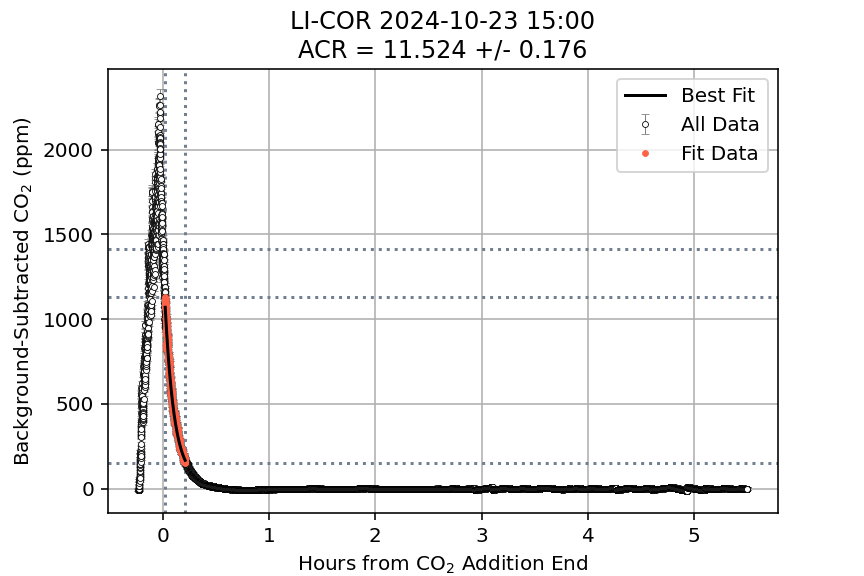
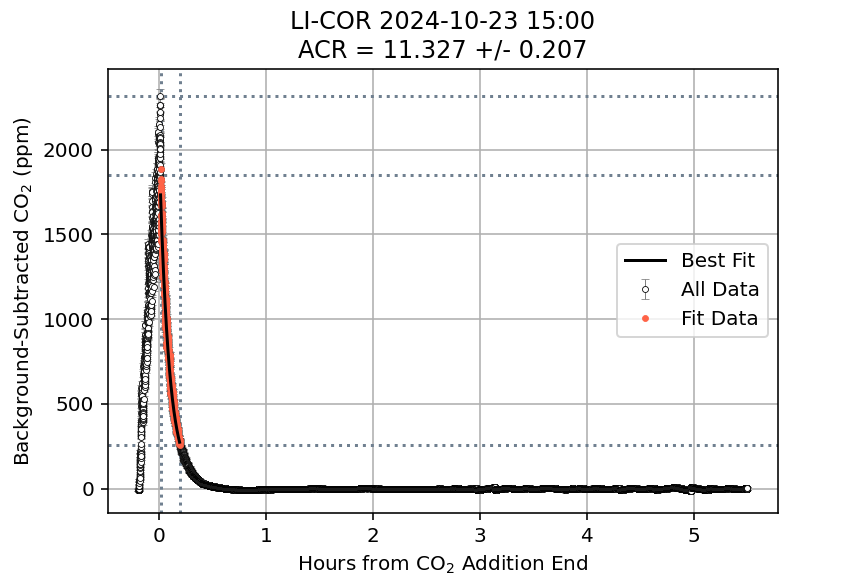
Added filter to remove poor ACR fits for LI-COR, determined no filtering needed for Aranet ACR fits

diff --git a/Instruments_Scripts/calculate_acrs.py b/Instruments_Scripts/calculate_acrs.py
@@ -694,6 +694,11 @@ licor_acrs = pl.DataFrame(
     orient="row", 
     schema=["AddTime", "FitStartTime", "FitEndTime", "ACR_h", "ACR_h_Unc"]
     )
+# Filters poor LI-COR fits based on uncertainties
+licor_acrs = licor_acrs.filter(
+    pl.col("ACR_h_Unc").lt(0.0017)
+    | pl.col("ACR_h").gt(3)
+    )
 # %% Fits Aranet CO2 decays
 aranet_acrs = []
 for (add_id,), add_df in aranet_decay.items():
@@ -832,43 +837,7 @@ aranet_acrs = pl.DataFrame(
     orient="row", 
     schema=["AddTime", "FitStartTime", "FitEndTime", "ACR_h", "ACR_h_Unc"]
     )
-# %%
-
-licor_decay.keys()
-
-
-all_adds = [add_id for (add_id, ) in aranet_decay.keys()]
-fit_adds = [add_id for [add_id, _, _] in aranet_acrs]
-not_fit = [add_id for add_id in all_adds if add_id not in fit_adds]
-
-for add_id in not_fit:
-    test = aranet_decay[(add_id,)]
-    fig, ax = plt.subplots()
-    ax.scatter(test["Time_h"], test["BGSub_CO2_ppm"])
-    ax.set_title(add_id)
-
-licor_data.filter(
-    pl.col("UTC_DateTime").dt.month().eq(3)
-    & pl.col("UTC_DateTime").dt.year().eq(2025)
-    & pl.col("UTC_DateTime").dt.day().lt(19)
-    )
-licor_acrs
-test = licor_decay[('2024-10-23 11:32',)]
-fig, ax = plt.subplots()
-ax.plot(test["Time_h"], test["BGSub_CO2_ppm"])
-licor_decay[('2024-10-23 11:32',)]
-add_times["CO2"].filter(pl.col("UTC_Start").dt.year().eq(2024)
-                        & pl.col("UTC_Start").dt.month().eq(10)
-                                                )
-licor_acrstest = licor_acrs.with_columns(
-    ACR_h_RelUnc=pl.col("ACR_h_Unc").truediv(pl.col("ACR_h"))
-    )
-
-ulim = 3 * licor_acrstest["ACR_h_Unc"].quantile(0.75) - 2 * licor_acrstest["ACR_h_Unc"].quantile(0.25)
-
-licor_acrstest.filter(
-    pl.col("ACR_h_Unc").gt(ulim)
-    )
+# %% 
 
 # %%
 

diff --git a/Instruments_Documentation/Instruments_LabNotebook/Instruments_CodingNotes/Instruments_CodingNotes_2026/Instruments_CodingNotes_202611/Instruments_CodingNotes_20261102.md b/Instruments_Documentation/Instruments_LabNotebook/Instruments_CodingNotes/Instruments_CodingNotes_2026/Instruments_CodingNotes_202611/Instruments_CodingNotes_20261102.md
@@ -85,3 +85,21 @@
 		- 2026-03-31 06:00: Missing first ~4.5h, don't have anything after ~5h
 		- 2026-04-10 00:00: Missing first ~3h of decay, nothing after ~5.5h
 	- All around reasonable with respect to decays that weren't fit, no remaining concerns there
+- NOW moving on to uncertainty based filtering if I can
+	- First just seeing where the cutoffs may be approximately
+		- Challenging to reconcile differences between high and low ACR (10 ish as high) bc the high ACR intrinsically has greater uncertainty due to fewer points used to define the fit
+	- Only low ACR with uncertainty >0.01 is when room was entered
+	- 3 clearly poor fits removed with cutoff of 0.005
+	- Cutoff of 0.004 Gets a number of fits where ACR visually changed mid decay
+		- Same with 0.003
+		- 0.002 is actually appearing to be a decent cutoff, there are maybe 2 that I would argue shouldn't be lost
+		- Cutoff of 0.0017 works reasonably well and it took me a very long time to come with that so not changing it
+	- Reviewing uncertainty for high ACR conditions
+		- Not quite clear in part because high ACR plots don't show things so well, but just gonna say they're all valid lowkey
+			- 10/23 has very low uncertainty but other days with similar ACR don't? idk 
+		- AKA either uncertainty should be <0.0017 or ACR >3 as the filter
+			- Removes 24 ACRs over all three campaigns so that seems reasonable
+	- Now going to check on the Aranet ones, I think the resolution on these isn't high enough to really see much
+		- Stand by this - they all look fine, maybe 2 on 2025-04-14 that are a little funky, but uncertainty is generally consistent with others that look normal
+			- Me when I make things up it seems, it's only 12:00 looks weird - but also not confident enough that it's odd to remove it entirely
+- 
